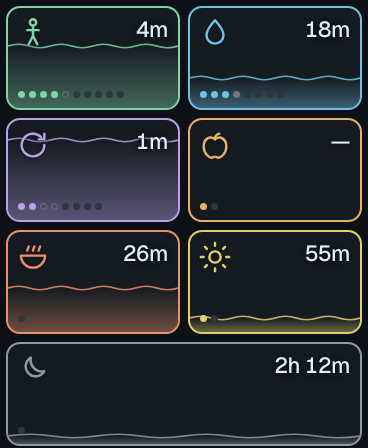
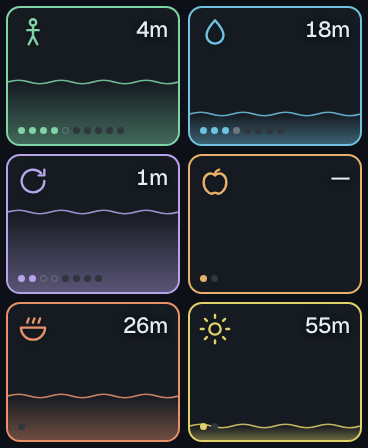
Cut the Shut down action; grid becomes an even 3x2
Removed from config/actions.json, so it flows out through the generated
table, derive, both UIs and the fixtures that asserted its 18:00 slot.
Host tests still pass.

Six actions divide evenly into three rows, which turns the leftover space
at the bottom into tile height instead: 3 x 140 + gutters = 448 exactly.
The full-width special case in the grid goes with it.

Design and firmware both updated, plus the prototype. §2's table, §7.1's
layout note and §1's out-of-scope list follow.

diff --git a/design/prototype-standalone.html b/design/prototype-standalone.html
@@ -38,7 +38,7 @@
   .screen.on { opacity:1; pointer-events:auto }
 
   /* ---------------------------------------------------------------- grid */
-  .grid { display:grid; grid-template-columns:1fr 1fr; grid-auto-rows:104px; gap:8px; padding:6px }
+  .grid { display:grid; grid-template-columns:1fr 1fr; grid-auto-rows:140px; gap:8px; padding:6px }
   .tile {
     position:relative; background:var(--tile); border:2px solid var(--tint);
     border-radius:14px; overflow:hidden; padding:8px; cursor:pointer;
@@ -129,7 +129,6 @@ const ICONS = {
   snack:  '<path d="M12 8c-4-3-8 0-8 5s4 8 5.5 8 1.6-.8 2.5-.8 1 .8 2.5.8S20 18 20 13s-4-8-8-5Z"/><path d="M12 8c0-2 1-3.5 3-4"/>',
   lunch:  '<path d="M3.5 11h17a8.5 8.5 0 0 1-17 0Z"/><path d="M8 7.5c0-1.5 1-2 1-3M12 7.5c0-1.5 1-2 1-3M16 7.5c0-1.5 1-2 1-3"/>',
   stretch:'<circle cx="12" cy="12" r="4"/><path d="M12 2v2m0 16v2M2 12h2m16 0h2M4.9 4.9l1.4 1.4m11.4 11.4 1.4 1.4M19.1 4.9l-1.4 1.4M6.3 17.7l-1.4 1.4"/>',
-  shutdown:'<path d="M20 13.5A8 8 0 0 1 10.5 4a7 7 0 1 0 9.5 9.5Z"/>',
 };
 const SPEAKER_ON  = '<svg width="22" height="22" viewBox="0 0 24 24" fill="none" stroke="currentColor" stroke-width="1.7" stroke-linecap="round" stroke-linejoin="round"><path d="M4 9.5v5h3.5L12 18V6L7.5 9.5H4Z"/><path d="M16 9.5a3.5 3.5 0 0 1 0 5"/><path d="M18.5 7a7 7 0 0 1 0 10"/></svg>';
 const SPEAKER_OFF = '<svg width="22" height="22" viewBox="0 0 24 24" fill="none" stroke="currentColor" stroke-width="1.7" stroke-linecap="round" stroke-linejoin="round"><path d="M4 9.5v5h3.5L12 18V6L7.5 9.5H4Z"/><path d="m16 10 5 4m0-4-5 4"/></svg>';
@@ -143,7 +142,6 @@ const ACTIONS = [
   { id:'snack',   name:'Snack',         tint:'#e8b06a', blurb:'Something small before the slump.',          target:2,  done:1, skip:0, miss:0, mins:null,due:false },
   { id:'lunch',   name:'Lunch',         tint:'#e8926a', blurb:'Away from the desk.',                        target:1,  done:0, skip:0, miss:0, mins:26,  due:false },
   { id:'stretch', name:'Stretches',     tint:'#e0d16a', blurb:'Four stretches, about three minutes.',       target:2,  done:1, skip:0, miss:0, mins:55,  due:false },
-  { id:'shutdown',name:'Shut down',     tint:'#8f9aa8', blurb:'Close the laptop. That is the day.',         target:1,  done:0, skip:0, miss:0, mins:132, due:false },
 ];
 let soundOn = true, open_ = null;
 
@@ -154,11 +152,11 @@ const dotsHTML = a => {
        : d < a.done+a.skip+a.miss ? 'miss' : 'pend'}"></i>`).join('');
 };
 const fill = a => a.mins == null ? 0
-  : Math.round(Math.min(1, 1 - a.mins / (a.id==='shutdown' ? 180 : a.id==='lunch' ? 60 : 45)) * 100);
+  : Math.round(Math.min(1, 1 - a.mins / (a.id==='lunch' ? 60 : 45)) * 100);
 
 function drawGrid() {
   document.getElementById('grid').innerHTML = ACTIONS.map((a,i) => `
-    <div class="tile ${i===6?'wide':''}" style="--tint:${a.tint}; --fill:${fill(a)}px" data-i="${i}">
+    <div class="tile" style="--tint:${a.tint}; --fill:${fill(a)}px" data-i="${i}">
       <div class="wash"></div>
       ${fill(a) > 2 ? `<div class="surface">${WAVE}</div>` : ''}
       <svg class="icon" viewBox="0 0 24 24">${ICONS[a.id]}</svg>

diff --git a/design/prototype.html b/design/prototype.html
@@ -38,7 +38,7 @@
   .screen.on { opacity:1; pointer-events:auto }
 
   /* ---------------------------------------------------------------- grid */
-  .grid { display:grid; grid-template-columns:1fr 1fr; grid-auto-rows:104px; gap:8px; padding:6px }
+  .grid { display:grid; grid-template-columns:1fr 1fr; grid-auto-rows:140px; gap:8px; padding:6px }
   .tile {
     position:relative; background:var(--tile); border:2px solid var(--tint);
     border-radius:14px; overflow:hidden; padding:8px; cursor:pointer;
@@ -129,7 +129,6 @@ const ICONS = {
   snack:  '<path d="M12 8c-4-3-8 0-8 5s4 8 5.5 8 1.6-.8 2.5-.8 1 .8 2.5.8S20 18 20 13s-4-8-8-5Z"/><path d="M12 8c0-2 1-3.5 3-4"/>',
   lunch:  '<path d="M3.5 11h17a8.5 8.5 0 0 1-17 0Z"/><path d="M8 7.5c0-1.5 1-2 1-3M12 7.5c0-1.5 1-2 1-3M16 7.5c0-1.5 1-2 1-3"/>',
   stretch:'<circle cx="12" cy="12" r="4"/><path d="M12 2v2m0 16v2M2 12h2m16 0h2M4.9 4.9l1.4 1.4m11.4 11.4 1.4 1.4M19.1 4.9l-1.4 1.4M6.3 17.7l-1.4 1.4"/>',
-  shutdown:'<path d="M20 13.5A8 8 0 0 1 10.5 4a7 7 0 1 0 9.5 9.5Z"/>',
 };
 const SPEAKER_ON  = '<svg width="22" height="22" viewBox="0 0 24 24" fill="none" stroke="currentColor" stroke-width="1.7" stroke-linecap="round" stroke-linejoin="round"><path d="M4 9.5v5h3.5L12 18V6L7.5 9.5H4Z"/><path d="M16 9.5a3.5 3.5 0 0 1 0 5"/><path d="M18.5 7a7 7 0 0 1 0 10"/></svg>';
 const SPEAKER_OFF = '<svg width="22" height="22" viewBox="0 0 24 24" fill="none" stroke="currentColor" stroke-width="1.7" stroke-linecap="round" stroke-linejoin="round"><path d="M4 9.5v5h3.5L12 18V6L7.5 9.5H4Z"/><path d="m16 10 5 4m0-4-5 4"/></svg>';
@@ -143,7 +142,6 @@ const ACTIONS = [
   { id:'snack',   name:'Snack',         tint:'#e8b06a', blurb:'Something small before the slump.',          target:2,  done:1, skip:0, miss:0, mins:null,due:false },
   { id:'lunch',   name:'Lunch',         tint:'#e8926a', blurb:'Away from the desk.',                        target:1,  done:0, skip:0, miss:0, mins:26,  due:false },
   { id:'stretch', name:'Stretches',     tint:'#e0d16a', blurb:'Four stretches, about three minutes.',       target:2,  done:1, skip:0, miss:0, mins:55,  due:false },
-  { id:'shutdown',name:'Shut down',     tint:'#8f9aa8', blurb:'Close the laptop. That is the day.',         target:1,  done:0, skip:0, miss:0, mins:132, due:false },
 ];
 let soundOn = true, open_ = null;
 
@@ -154,11 +152,11 @@ const dotsHTML = a => {
        : d < a.done+a.skip+a.miss ? 'miss' : 'pend'}"></i>`).join('');
 };
 const fill = a => a.mins == null ? 0
-  : Math.round(Math.min(1, 1 - a.mins / (a.id==='shutdown' ? 180 : a.id==='lunch' ? 60 : 45)) * 100);
+  : Math.round(Math.min(1, 1 - a.mins / (a.id==='lunch' ? 60 : 45)) * 100);
 
 function drawGrid() {
   document.getElementById('grid').innerHTML = ACTIONS.map((a,i) => `
-    <div class="tile ${i===6?'wide':''}" style="--tint:${a.tint}; --fill:${fill(a)}px" data-i="${i}">
+    <div class="tile" style="--tint:${a.tint}; --fill:${fill(a)}px" data-i="${i}">
       <div class="wash"></div>
       ${fill(a) > 2 ? `<div class="surface">${WAVE}</div>` : ''}
       <svg class="icon" viewBox="0 0 24 24">${ICONS[a.id]}</svg>

diff --git a/design/board-icons.html b/design/board-icons.html
@@ -30,7 +30,7 @@
   .grid {
     display: grid;
     grid-template-columns: 1fr 1fr;
-    grid-auto-rows: 104px;
+    grid-auto-rows: 140px;
     gap: 8px;
     padding: 6px;
   }
@@ -141,11 +141,4 @@
     <div class="dots"><i class="dot done"></i><i class="dot pend"></i></div>
   </div>
 
-  <!-- Shut down — full width, the action that ends the day -->
-  <div class="tile wide" style="--tint:#8f9aa8; --fill:8px">
-    <div class="wash"></div><svg class="surface" viewBox="0 0 120 8" preserveAspectRatio="none"><path d="M0 4Q7.5 0.6 15 4T30 4T45 4T60 4T75 4T90 4T105 4T120 4"/></svg>
-    <svg class="icon" viewBox="0 0 24 24"><path d="M20 13.5A8 8 0 0 1 10.5 4a7 7 0 1 0 9.5 9.5Z"/></svg>
-    <div class="cd">2h 12m</div>
-    <div class="dots"><i class="dot pend"></i></div>
-  </div>
 </div>

diff --git a/firmware/test/fixtures.g.h b/firmware/test/fixtures.g.h
@@ -155,7 +155,6 @@ static const fx_kv_t replay_idempotent_next[] = {
     { "roll", "14:00" },
     { "snack", "15:30" },
     { "stretch", "16:30" },
-    { "shutdown", "18:00" },
 };
 
 static const char *const replay_idempotent_next_none[] = {
@@ -199,7 +198,6 @@ static const fx_kv_t stretch_priority_next[] = {
     { "snack", "15:30" },
     { "lunch", "13:00" },
     { "stretch", "16:30" },
-    { "shutdown", "18:00" },
 };
 
 static const char *const stretch_priority_due[] = {
@@ -327,7 +325,7 @@ static const fixture_t FIXTURES[] = {
       .counts = replay_idempotent_counts, .n_counts = 2,
       .skipped = replay_idempotent_skipped, .n_skipped = 1,
       .missed = replay_idempotent_missed, .n_missed = 3,
-      .next = replay_idempotent_next, .n_next = 6,
+      .next = replay_idempotent_next, .n_next = 5,
       .next_epoch = NULL, .n_next_epoch = 0,
       .next_none = replay_idempotent_next_none, .n_next_none = 1,
       .due = replay_idempotent_due, .n_due = 5 },
@@ -357,7 +355,7 @@ static const fixture_t FIXTURES[] = {
       .counts = NULL, .n_counts = 0,
       .skipped = NULL, .n_skipped = 0,
       .missed = stretch_priority_missed, .n_missed = 3,
-      .next = stretch_priority_next, .n_next = 7,
+      .next = stretch_priority_next, .n_next = 6,
       .next_epoch = NULL, .n_next_epoch = 0,
       .next_none = NULL, .n_next_none = 0,
       .due = stretch_priority_due, .n_due = 5 },

diff --git a/firmware/main/ui.c b/firmware/main/ui.c
@@ -17,16 +17,17 @@
 
 static const char *TAG = "ui";
 
-// No header bar: the grid owns all 448px. Four rows — three pairs plus the
-// full-width shutdown — at 104px with 8px gutters comes to 446.
+// No header bar: the grid owns all 448px. Six actions is three even rows,
+// so the tiles get the height back rather than leaving a gap at the bottom:
+// 3 x 140 + 2 gutters + margins = 448 exactly.
 #define TILE_W  172
-#define TILE_H  104
+#define TILE_H  140
 #define GAP       8
 #define GRID_X0   6
 #define GRID_Y0   6
 
 static const uint32_t TINT[] = {
-    0x7fd4a8, 0x6ec3e0, 0xb6a3e8, 0xe8b06a, 0xe8926a, 0xe0d16a, 0x8f9aa8,
+    0x7fd4a8, 0x6ec3e0, 0xb6a3e8, 0xe8b06a, 0xe8926a, 0xe0d16a,
 };
 
 card_t g_card;
@@ -129,9 +130,8 @@ static void build_grid(void) {
     lv_obj_clear_flag(g_grid, LV_OBJ_FLAG_SCROLLABLE);
 
     for (int i = 0; i < g_settings.n_actions; i++) {
-        const bool last = (i == g_settings.n_actions - 1);
-        const int w = last ? (TILE_W * 2 + GAP + 4) : TILE_W;
-        const int x = last ? GRID_X0 : (i % 2) * (TILE_W + GAP + 4) + GRID_X0;
+        const int w = TILE_W;
+        const int x = (i % 2) * (TILE_W + GAP + 4) + GRID_X0;
         const int y = GRID_Y0 + (i / 2) * (TILE_H + GAP);
 
         lv_obj_t *t = lv_obj_create(g_grid);

diff --git a/firmware/main/actions.g.h b/firmware/main/actions.g.h
@@ -6,7 +6,7 @@
 
 typedef struct { const char *name; int seconds; const char *cue; } stretch_def_t;
 
-#define ACTIONS_COUNT   7
+#define ACTIONS_COUNT   6
 #define STRETCH_COUNT   4
 
 static const action_def_t ACTIONS[ACTIONS_COUNT] = {
@@ -39,11 +39,6 @@ static const action_def_t ACTIONS[ACTIONS_COUNT] = {
       .blurb = "Four stretches, about three minutes.",
       .target = 2, .priority = 3, .flow = FLOW_STRETCH,
       .cadence = { .kind = CADENCE_FIXED, .n_times = 2, .times = { "11:30", "16:30" } } },
-
-    { .id = "shutdown", .name = "Shut down",
-      .blurb = "Close the laptop. That is the day.",
-      .target = 1, .priority = 2, .flow = FLOW_TAP,
-      .cadence = { .kind = CADENCE_FIXED, .n_times = 1, .times = { "18:00" } } },
 };
 
 static const stretch_def_t STRETCHES[STRETCH_COUNT] = {

diff --git a/PLAN.md b/PLAN.md
@@ -26,7 +26,7 @@ What makes a future web version cheap is the event log in §3 and the snapshot s
 
 The board sits on the desk and prompts the person sitting at it. It does not chase them elsewhere: no phone push, no notifications away from the desk. If you are not there, you are not there.
 
-**Explicitly out of scope:** eye breaks (20-20-20), the lunchtime walk, any "silence for the day" control, and any companion client. No historical views in v1 — see §13.
+**Explicitly out of scope:** eye breaks (20-20-20), the lunchtime walk, any "silence for the day" control, any companion client, and the end-of-day shut-down prompt (cut after seeing it on the board — it was the one tile that never told you anything you did not already know). No historical views in v1 — see §13.
 
 ---
 
@@ -40,7 +40,6 @@ The board sits on the desk and prompts the person sitting at it. It does not cha
 | Snack | 10:45, 15:30 | 2 | amber `#e8b06a` | single tap |
 | Lunch | 13:00 | 1 | orange `#e8926a` | single tap |
 | Stretches | 11:30, 16:30 | 2 | yellow `#e0d16a` | guided, 4 steps |
-| Shut down | 18:00 | 1 | grey `#8f9aa8` | single tap |
 
 Working hours 09:00–18:00. No prompts outside the window, save a 30-minute grace past `workEnd` that exists so the 18:00 shut-down card can be raised and answered (§5.2). Timers reset at 09:00 the next day.
 
@@ -498,7 +497,7 @@ The scenarios were mutation-checked the same way as `derive`: broken row lookup,
 
 ### 7.1 Grid (default)
 
-- 7 tiles, 2 columns, `shutdown` spanning the full final row — it is the one action that ends the day, so the layout reads as a full stop
+- 6 tiles, 2 columns, 3 even rows at 140px — no header bar, so the grid owns all 448px
 - Each tile: icon, name, progress dots, countdown in minutes
 - **Countdown** renders as a slow tinted wash rising from the bottom of the tile as the slot approaches
 - **Grain** overlay, drifting in 6 discrete steps so it reads as film grain rather than a sliding gradient
